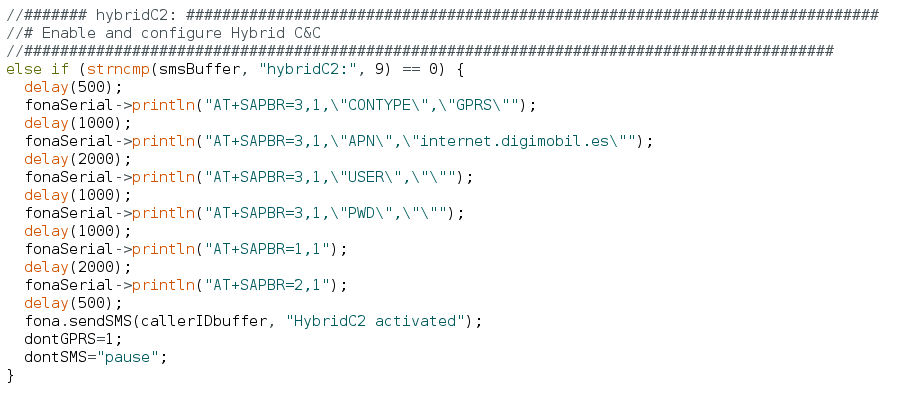
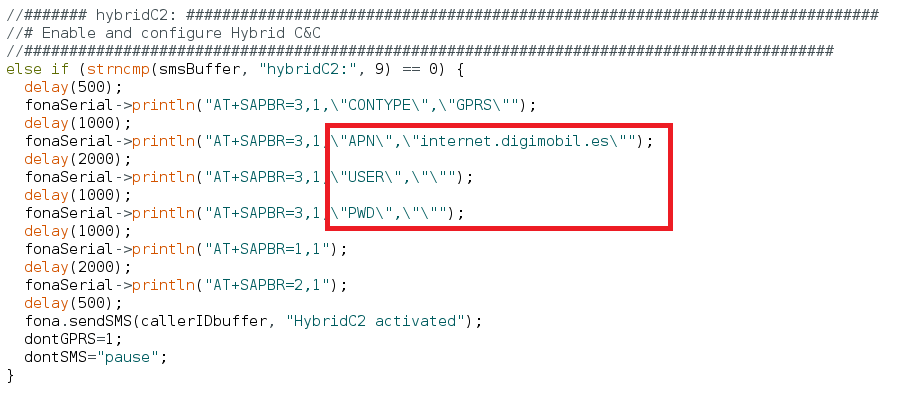
hybridC2 function

Changed region(s): [[0.3351, 0.3038, 0.7312, 0.6076]]

diff --git a/WHID_Elite_HybridCC_v.1.0/README.md b/WHID_Elite_HybridCC_v.1.0/README.md
@@ -16,9 +16,17 @@ New commands:
 
 2. Add your APN, USER and PASSWORD in the hybridC2 function:
 
+![Enable HybridC2](https://github.com/joelsernamoreno/Bwhid-31337/blob/master/WHID_Elite_HybridCC_v.1.0/images/enablehybrid.png)
+
 3. Add your web server URL in the next section of the code:
 
+![Web Server Configuration](https://github.com/joelsernamoreno/whid-31337/blob/master/WHID_Elite_HybridCC_v.1.0/images/webserver_conf.png)
+
 4. Compile and upload the code to WHID Elite.
+
+**Note:** You can uncomment the following lines to debug the hybridC2 code on the serial monitor.
+
+![Debug](https://github.com/joelsernamoreno/whid-31337/blob/master/WHID_Elite_HybridCC_v.1.0/images/debug.png)
 
 # Use the HybridC2 function with WHID Elite
 
